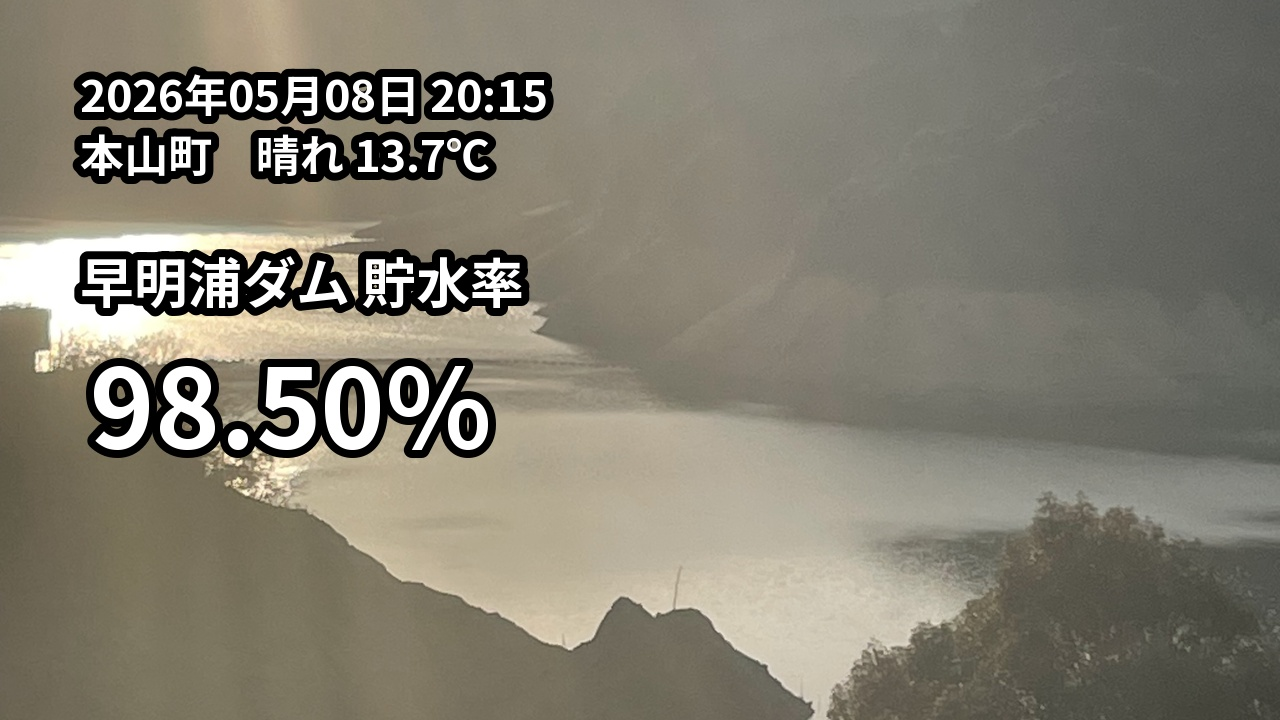
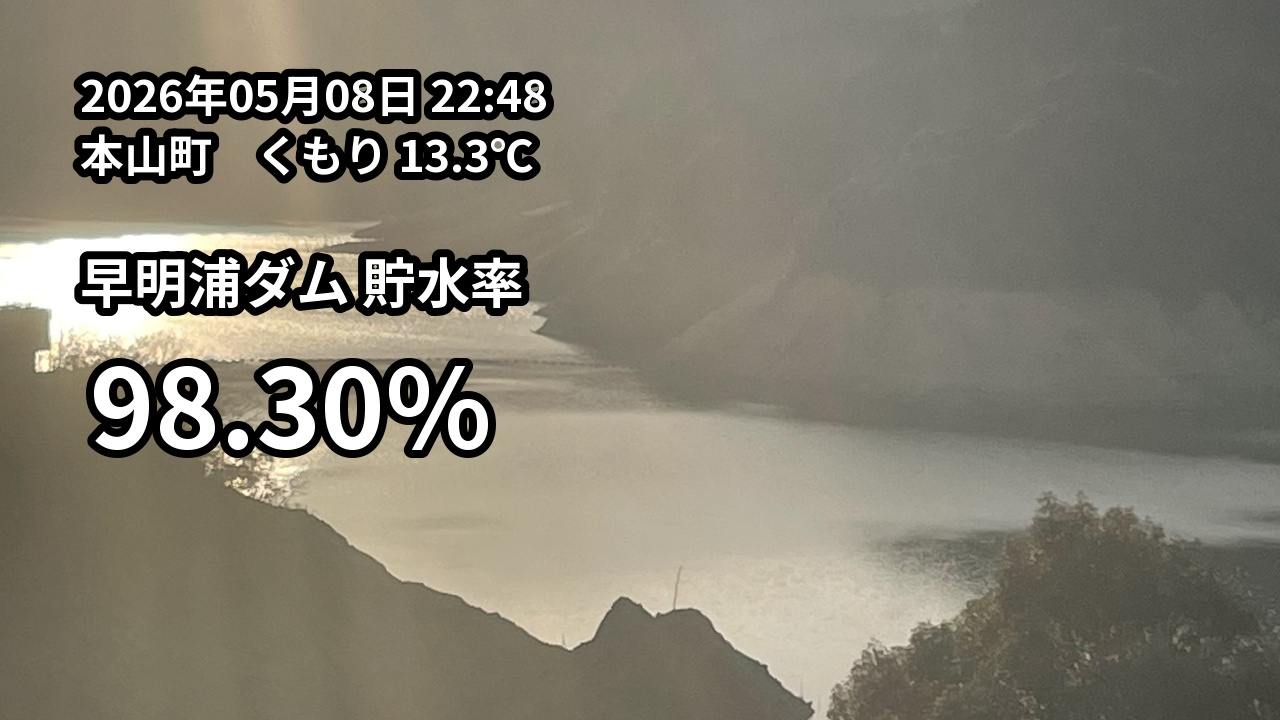
Update daily image

Changed region(s): [[0.1875, 0.0917, 0.4375, 0.275], [0.1875, 0.4889, 0.25, 0.6111]]

diff --git a/index.html b/index.html
@@ -10,6 +10,6 @@
   </style>
 </head>
 <body>
-  <img src="result.jpg?v=202605082015" alt="早明浦ダム 貯水率" />
+  <img src="result.jpg?v=202605082248" alt="早明浦ダム 貯水率" />
 </body>
 </html>
